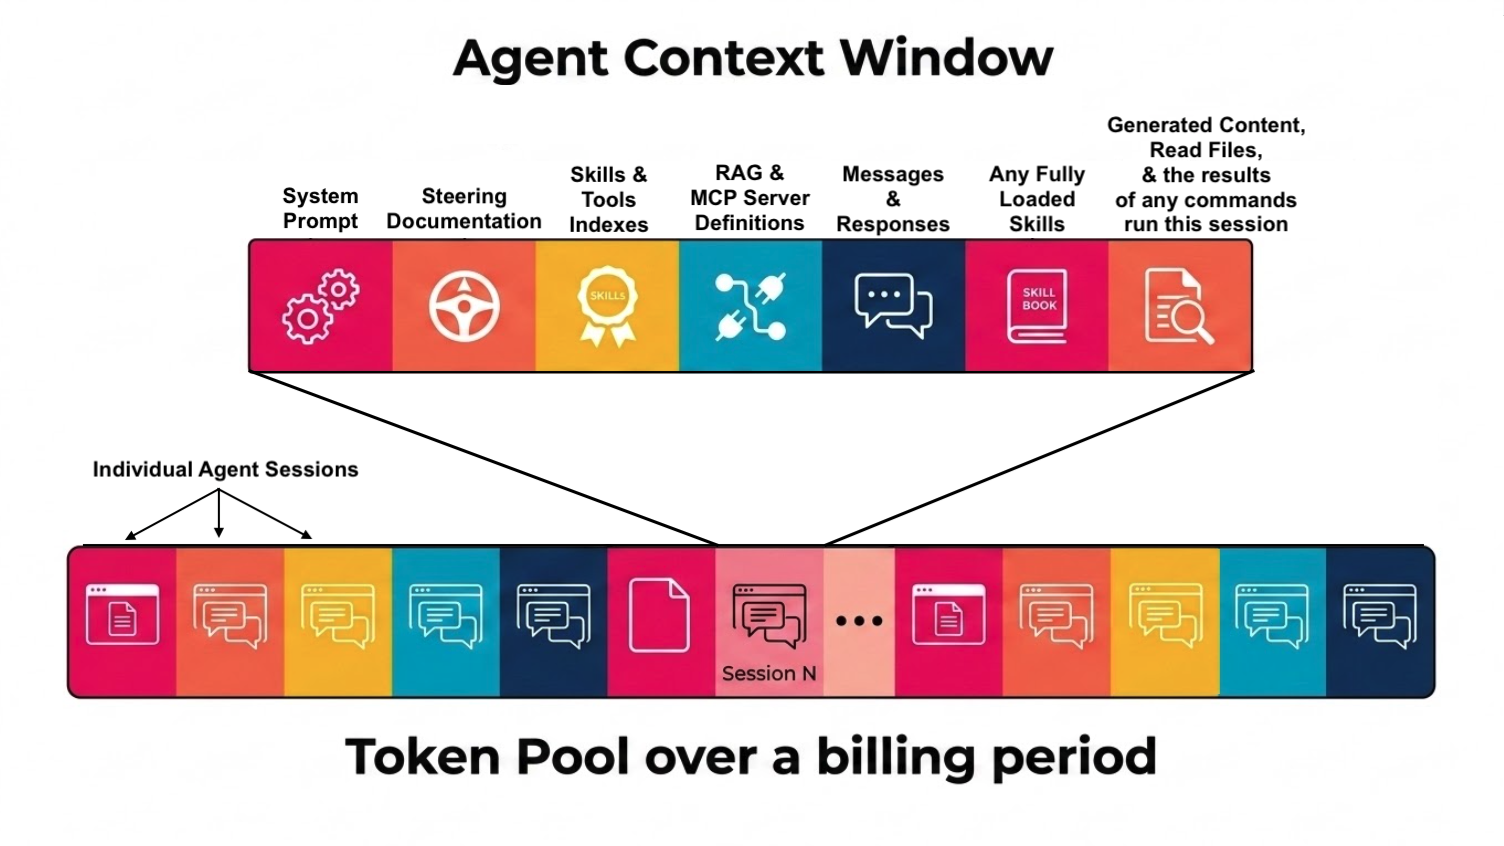
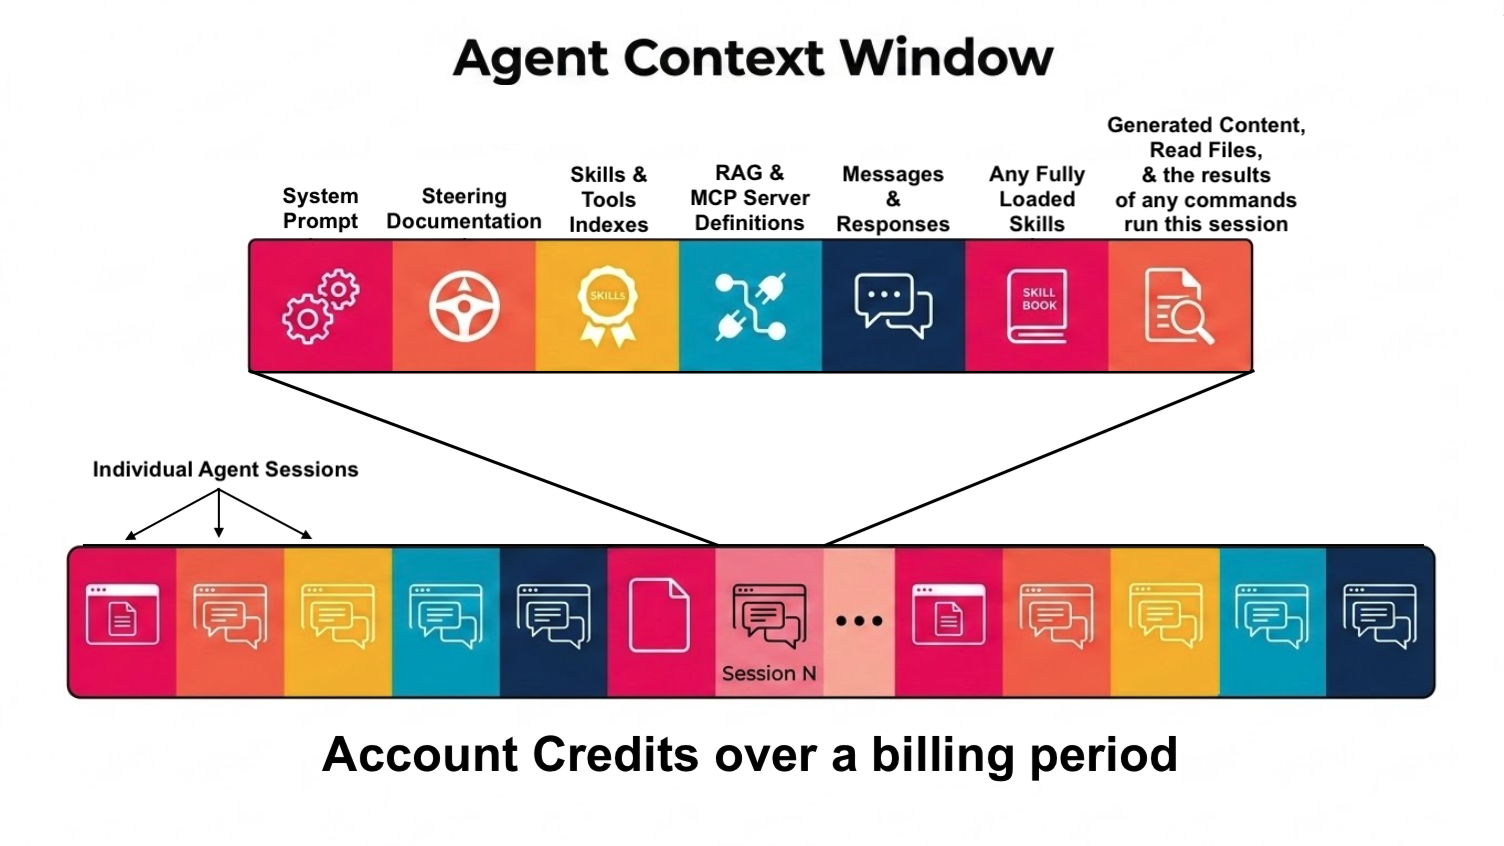
Add adagrams context window usage example to context-windows lesson

Changed region(s): [[0.2188, 0.8605, 0.7812, 0.922]]

diff --git a/agentic-coding/context-windows.md b/agentic-coding/context-windows.md
@@ -63,8 +63,8 @@ We can think of the context window as the agent's working memory. It is everythi
 - The full contents of any skills loaded during the session
 - The results of every file read, search, or command run so far, including any code the agent has written or reviewed in this session
 
-![One bar representing our monthly token pool that is filled up with many individual agent sessions with another bar above it that represents a single instance of an agent session. The agent session bar is made up of the components listed above the image.](assets/token_pool_and_context_windows.png)
-*Fig. Our token pool and agent context windows are tightly linked. Over a billing period, the token pool is used by the individual agent sessions we run. Each of those agent sessions uses tokens to represent the data that fills their context windows. ([Full Size Image](assets/token_pool_and_context_windows.png))*
+![One bar representing our monthly account credits that is filled up with many individual agent sessions with another bar above it that represents a single instance of an agent session. The agent session bar is made up of the components listed above the image.](assets/token_pool_and_context_windows.png)
+*Fig. Our account credits and tokens used by agent context windows are tightly linked. Different models bill our credits at different rates. Over a billing period, our account credits are used by the individual agent sessions we run. Each of those agent sessions uses tokens to represent the data that fills their context windows. ([Full Size Image](assets/token_pool_and_context_windows.png))*
 
 This is a fundamentally different model from how we might think about human memory: 
 - A developer working on a task can recall what they did last week, set aside information that isn't immediately relevant, and pull in context from many sources over time. 
@@ -91,6 +91,38 @@ The effect is somewhat like trying to remember something from the middle of a ve
 
 Most systems begin automatic compaction somewhere around 80–95% of the window's capacity. But by that point, some degradation is likely already occurring. This is why we want to develop habits to proactively manage context rather than waiting for automatic intervention. 
 - A useful rule of thumb is to check context usage frequently and around the 60% mark, take action before quality starts to drift.
+
+### Context Window Usage Example
+
+How does this context usage look in a standard workflow? Let's say that we want to use Copilot AI agents in VS Code to help us complete the [Adagrams project](https://github.com/AdaGold/adagrams-py). If we open up the code locally, start off a new agent session in planning mode, then send a prompt like:
+
+> Help me create a structured approach to complete the Adagrams project. The requirements are outlined in 'README.md'. Only the file 'adagrams/game.py' is allowed to be changed to complete this project. 'adagrams/game.py' contains 4 function definitions that need to be fully implemented. These functions must pass the tests located in the 'tests' folder. The functions should follow PEP8 best practices for Python. Only the packages in the file 'requirements.txt' are allowed to be used for this project.
+
+We should pretty shortly see some plan generated, along with information on the model version and how many account credits were used by the response.
+
+![Copilot agent chat panel in VS Code showing an implentation plan for the Adagrams project along wth information about the response like the model version and credits used.](assets/adagrams_planning_chat.png)
+*Fig. Copilot agent chat in planning mode showing part of a plan for implementing the Adagrams project. ([Full Size Image](assets/adagrams_planning_chat.png))*
+
+If we click on the session usage tracker at the bottom of the screen, we can see details on the context window contents like our current usage, how the contents are divided up, and options for compacting the conversation:
+
+![Session usage tracker for the copilot planning agent working on the adagrams implementation plan showing the current context window usage.](assets/adagrams_planning_context_use.png)
+
+*Fig. Session usage tracker for the copilot planning agent working on the adagrams implementation plan. ([Full Size Image](assets/adagrams_planning_context_use.png))*
+
+The model used for this planning session has a 1 million token context window size. The single request and response combined used up 21.9 thousand tokens of that total 1 million limit, and that's without any back and forth, no asking for explanation, requesting changes, etc. 
+
+If we use the "Start Implementation" button shown at the bottom of the chat window screenshot above, it will open a new agent session to begin implementing the outlined plan. In our run through, the implementation was started using a different model from planning, `GPT-5.3-Codex` which has a 400 thousand token limit for its context window. After the initial implementation, we asked for 3 changes:
+1. create a venv and install requirements before trying to run pytest
+2. move constants to their own file and import them into `game.py`
+3. refactor the last function to reduce repetition and make the function easier to follow
+    - We needed to ask for this to be refactored twice, since the initial refactor used a nested helper function and made the code harder to follow.
+
+![Part of the copilot agent's implementation response along with the session usage tracker information after Adagram's changes were completed](assets/adagrams_impl_context_usage.png)
+*Fig. Part of the implementation response along with the session usage tracker for the copilot implementation agent after Adagram's changes were completed. ([Full Size Image](assets/adagrams_impl_context_usage.png))*
+
+The prompt & response cycle for the implementation plan and our requested changes, without any further discussion or code explanations, used about 8% of the context window for the implementation agent. 
+
+Adagrams is a smaller scale project, we only altered two files, and only needed to read around seven files in total (test files, README.md & the two implementation files). As our project size and the amount of context required to do a task increases, proactively managing our context window becomes increasingly more important.
 
 ## Managing the Context Window
 
